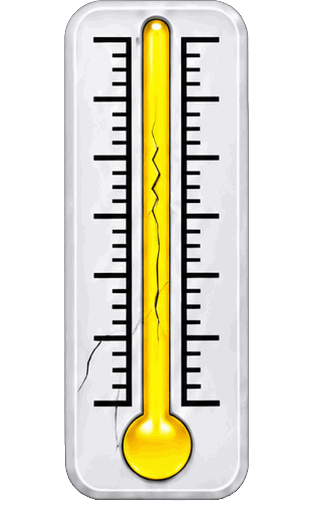
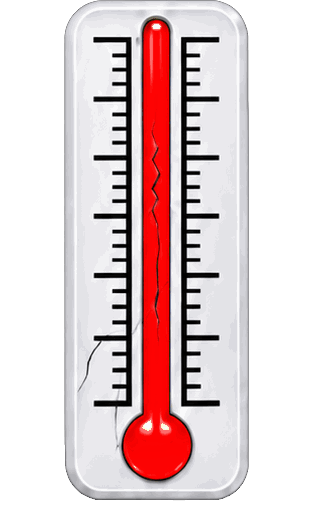
Improve Hubble packet lookup and thermometer UI
Search incrementally for recent device packets, handle pagination truncation, and normalize packet timestamps. Refresh thermometer frame images and clarify the extreme temperature range controls with low/high labels.

Changed region(s): [[0.3703, 0.0308, 0.6266, 0.9231]]

diff --git a/server/src/hubble.ts b/server/src/hubble.ts
@@ -41,16 +41,37 @@ export async function deviceHistory(deviceId: string, days: number): Promise<Clo
   }
   const end = Math.floor(Date.now() / 1000);
   const start = end - days * 24 * 60 * 60;
-  return fetchDevices(start, deviceId, 80, end);
+  const { packets } = await fetchDevices(start, deviceId, 80, end);
+  return packets;
 }
 
-/** Newest packet with a payload for one device, from a closed 12-hour window. */
+/** Newest packet with a payload for one device, looking back up to 12 hours. */
 export async function latestDevicePacket(deviceId: string): Promise<CloudDevice | null> {
   if (!hubbleConfigured()) {
     throw new Error("Hubble org id and API token are not set in .env");
   }
   const end = Math.floor(Date.now() / 1000);
-  const packets = await fetchDevices(end - 12 * 60 * 60, deviceId, 2, end);
+  const maxSpan = 12 * 60 * 60;
+  let span = 20 * 60;
+  while (span >= 60) {
+    const { packets, truncated } = await fetchDevices(end - span, deviceId, 3, end);
+    if (truncated) {
+      span = Math.floor(span / 4);
+      continue;
+    }
+    const newest = newestPayload(packets);
+    if (newest) {
+      return newest;
+    }
+    if (span >= maxSpan) {
+      return null;
+    }
+    span = Math.min(maxSpan, span * 4);
+  }
+  return null;
+}
+
+function newestPayload(packets: CloudDevice[]): CloudDevice | null {
   for (let index = packets.length - 1; index >= 0; index -= 1) {
     if (packets[index]?.payloadBase64) {
       return packets[index] ?? null;
@@ -108,10 +129,11 @@ async function fetchDevices(
   deviceId: string | null,
   maxPages: number,
   endTimeEpochSec?: number,
-): Promise<CloudDevice[]> {
+): Promise<{ packets: CloudDevice[]; truncated: boolean }> {
   const byId = new Map<string, CloudDevice>();
   const history: CloudDevice[] = [];
   let continuation: string | null = null;
+  let truncated = false;
 
   for (let page = 0; page < maxPages; page += 1) {
     const url = orgUrl("packets");
@@ -138,12 +160,15 @@ async function fetchDevices(
     if (!continuation) {
       break;
     }
+    if (page === maxPages - 1) {
+      truncated = true;
+    }
   }
 
-  if (deviceId) {
-    return history.sort((a, b) => a.timestampMillis - b.timestampMillis);
-  }
-  return [...byId.values()].sort((a, b) => b.timestampMillis - a.timestampMillis);
+  const packets = deviceId
+    ? history.sort((a, b) => a.timestampMillis - b.timestampMillis)
+    : [...byId.values()].sort((a, b) => b.timestampMillis - a.timestampMillis);
+  return { packets, truncated };
 }
 
 function orgUrl(resource: "devices" | "packets"): URL {
@@ -203,6 +228,19 @@ function parseOrgDevices(devices: unknown[]): CloudDevice[] {
   return parsed;
 }
 
+function numericTime(value: unknown): number {
+  if (typeof value === "number" && Number.isFinite(value)) {
+    return value;
+  }
+  if (typeof value === "string" && value.trim()) {
+    const parsed = Number(value);
+    if (Number.isFinite(parsed)) {
+      return parsed;
+    }
+  }
+  return 0;
+}
+
 function toMillis(value: number): number {
   if (!Number.isFinite(value) || value <= 0) {
     return 0;
@@ -218,14 +256,13 @@ function parsePackets(packets: unknown[]): CloudDevice[] {
     }
     const packet = raw as {
       device?: { id?: string; name?: string; rssi?: number; payload?: string; timestamp?: unknown };
-      location?: { timestamp?: number };
+      location?: { timestamp?: unknown };
     };
     const id = packet.device?.id ?? "";
     if (!id) {
       continue;
     }
-    const locationTs = packet.location?.timestamp ?? 0;
-    const timestampMillis = locationTs > 1_000_000_000_000 ? locationTs : locationTs * 1000;
+    const timestampMillis = toMillis(numericTime(packet.device?.timestamp) || numericTime(packet.location?.timestamp));
     devices.push({
       id,
       name: packet.device?.name ?? "",

diff --git a/web/src/App.tsx b/web/src/App.tsx
@@ -774,16 +774,21 @@ function Home({ user, onUser }: { user: User; onUser: (user: User | null) => voi
       <div className="field-row">
         <span>Extreme temperature range:</span>
         <div className="temp-range">
+          <span className="range-mark" aria-hidden="true">
+            L
+          </span>
           <input
-            aria-label="Extreme minimum"
+            aria-label="Extreme low"
             inputMode="decimal"
             value={scaleMinText}
             onChange={(event) => setScaleMinText(event.target.value)}
             onBlur={commitScale}
           />
-          <span>to</span>
+          <span className="range-mark" aria-hidden="true">
+            H
+          </span>
           <input
-            aria-label="Extreme maximum"
+            aria-label="Extreme high"
             inputMode="decimal"
             value={scaleMaxText}
             onChange={(event) => setScaleMaxText(event.target.value)}

diff --git a/web/src/Thermometer.tsx b/web/src/Thermometer.tsx
@@ -1,6 +1,6 @@
 import { useEffect, useId, useRef, useState } from "react";
 
-// Frames of empty_mercury_anim.gif and full_mercury_anim.gif, with the black backdrop removed.
+// Frames of the empty and full mercury GIFs, with the black backdrop removed.
 const EMPTY_FRAMES = Array.from({ length: 9 }, (_, index) => `/thermometer/empty/${String(index).padStart(2, "0")}.png`);
 const FULL_FRAMES = Array.from({ length: 9 }, (_, index) => `/thermometer/full/${String(index).padStart(2, "0")}.png`);
 

diff --git a/web/src/styles.css b/web/src/styles.css
@@ -120,6 +120,12 @@ select {
   padding: 0 4px;
 }
 
+.range-mark {
+  flex: none;
+  font-weight: 700;
+  font-size: 14px;
+}
+
 .unit-btn {
   width: 48px;
   flex: none;
